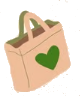
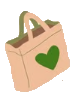
Nos valeurs WIP + component image avec titre

diff --git a/resources/js/Pages/Valeur/Valeurs.jsx b/resources/js/Pages/Valeur/Valeurs.jsx
@@ -2,21 +2,69 @@ import { Head } from '@inertiajs/react';
 
 import MainTitle from "./InfoText/MainTitle";
 import Line from "./InfoText/Line";
-import LittleSection from "./InfoText/LittleSection";
+import LittleOrangeSection from "./InfoText/LittleOrangeSection";
+import WhiteSection from './InfoText/WhiteSection';
 
 export default function Valeurs() {
     return(
         <>
-            <div className='Producteur bg-[#EFBD9A]'>
+            <div className='Producteur bg-[#EFBD9A] lg:hidden'>
                 <Head title="Nos Valeurs" />
 
                 <MainTitle/>
 
                 <Line/>
 
-                <LittleSection image={"loveBag.png"} title={"Nos Valeurs"}/>
+                <LittleOrangeSection 
+                    image={"loveBag.png"} 
+                    title={"Nos Valeurs"} 
+                    textAlignment={'center'} 
+                    text="La faim des temps à toujours chercher à intégrer le maximum de bonnes pratiques environnementales dans son fonctionnement pour la simple et bonne raison que cela fait partie des valeurs de base de ses fondateurs. On ne mange pas très bien avec un terroir exploité à l'extrême et pollué..."                />
 
-                <LittleSection image={"loveBag.png"} title={"Pour un centro plus vert et inclusif"}/>
+                {/* Section unique dans la page Valeurs.jsx */}
+                <div className="">
+                    <img
+                        className="w-1/3 mx-auto py-5"
+                        src="img/bigLeafPlant.png"
+                        alt="loveBag.png picture"
+                    />
+
+                    <div className="bg-[#F8ECE0] py-5 px-8 mx-14">
+                        <h2 className='text-xl font-extrabold angkor-regular pb-3'>
+                            Pour un Centro <br />
+                            plus <span className='text-[#387E39]'>vert</span> et <br />
+                            Inclusif
+                        </h2>
+
+                        <p>
+                            Soucieux de notre environnement et conscients qu'une entreprise 
+                            alimentaire peut rapidement produire beaucoup de déchets, nous 
+                            avons mis sur pied plusieurs stratégies pour réduire au maximum 
+                            notre empreinte environnementale.
+                        </p>
+                    </div>
+                </div>
+
+                <Line/>
+
+                <WhiteSection 
+                    image1={"leaf.png"} 
+                    subTitle1={"Produits Locaux"}
+                    text1={"Nos partenaires sont majoritairement Sherbrookois... ou Québécois (on aime un peu trop l'île d'Orléans pour s'en passer). De plus nous utilisons des ingrédients locaux autant que possible et notre menu bistro change au rythme des saisons. Nous choisissons aussi prioritairement des producteurs ou artisans biologiques/naturels."}                    image2={"plantBag.png"} 
+                    subTitle2={"Viser le zéro déchet"}
+                    text2={"À la fin des temps, quasiment tout est recyclé ou composté. Nous sommes très fiers que notre poubelle soit de la taille d'une corbeille à papiers de bureaux. Notre chère clientèle nous rapporte les contenants pour les plats du traiteur. Ces derniers sont ensuite nettoyés et assainis avant d'être réutilisés."}
+                    title={"Nos Gestes"} 
+                    textAlignment={'center'}/>
+
+                <Line/>
+                {/* Section caché pour le moment, en attente de confirmation du projet */}
+                <LittleOrangeSection 
+                    image={"crossHand.png"} 
+                    title={"Un accueil pour tous"} 
+                    text={"Lorem Ipsum is simply dummy text of the printing and typesetting industry. Lorem Ipsum has been the industry's standard dummy text ever since the 1500s, when an unknown printer took a galley of type and scrambled it to make a type specimen book. It has survived not only five centuries, but also the leap into electronic typesetting, remaining essentially unchanged. It was popularised in the 1960s with the release of Letraset sheets containing"}
+                    textAlignment={'center'} 
+                    imgIn={true} 
+                    hidden={false}/> 
             </div>
         </>
     )

diff --git a/resources/js/Pages/Valeur/InfoText/LittleOrangeSection.jsx b/resources/js/Pages/Valeur/InfoText/LittleOrangeSection.jsx
@@ -1,0 +1,35 @@
+import React, {useState} from "react";
+import SectionTitle from "./SectionTitle";
+
+export default function LittleOrangeSection(props) {
+
+    const [title, setTitle] = useState(props.title);
+    const [textAlignment, setTextAlignment] = useState(props.textAlignment);
+
+    return(
+        <div className={`py-5 ${props.hidden ? 'hidden' : ''}`}>
+            <img
+                className={`w-1/3 mx-auto py-5 ${props.imgIn ? 'hidden' : ''} lg:absolute lg:z-0 lg:w-48 lg:top-36 lg:-rotate-8`}
+                src={"img/"+props.image}
+                alt={props.image+" picture"}
+            />
+
+            <div className="bg-[#E2A76C] p-4 m-5 lg:relative lg:z-10 lg:grid lg:grid-cols-6 lg:m-0 lg:w-1/3 lg:p-5 lg:ml-20">
+                <img
+                    className={`w-1/3 mx-auto py-5 ${props.imgIn ? '' : 'hidden'} lg:hidden`}
+                    src={"img/"+props.image}
+                    alt={props.image+" picture"}
+                />
+                <SectionTitle title={title}  textAlignment={textAlignment}/>
+
+                {/* Cette image n'apparaît que en format laptop */}
+                <img 
+                    className="w-1/3 hidden lg:block lg:z-20 lg:col-span-2 lg:w-full lg:my-auto"
+                    src="img/handPlant.png" 
+                    alt="hand planting picture" 
+                />
+                <p className=" lg:z-10 lg:col-span-4 lg:mt-3">{props.text}</p>
+            </div>
+        </div>
+    );
+}

diff --git a/resources/js/Pages/Valeur/InfoText/WhiteSection.jsx b/resources/js/Pages/Valeur/InfoText/WhiteSection.jsx
@@ -1,0 +1,20 @@
+import React, {useState} from "react";
+import SectionTitle from "./SectionTitle";
+import SubSection from "./SubSection";
+
+export default function WhiteSection(props) {
+
+    const [title, setTitle] = useState(props.title);
+    const [textAlignment, setTextAlignment] = useState(props.textAlignment);
+
+    return(
+        <div className="">
+            <div className="bg-[#F8ECE0] p-4 m-5">
+                <SectionTitle title={title} textAlignment={textAlignment}/>
+                
+                <SubSection image={props.image1} SubTitle={props.subTitle1} text={props.text1}/>
+                <SubSection image={props.image2} SubTitle={props.subTitle1} text={props.text2}/>
+            </div>
+        </div>
+    );
+}

diff --git a/resources/js/Pages/Valeur/InfoText/SubSection.jsx b/resources/js/Pages/Valeur/InfoText/SubSection.jsx
@@ -1,0 +1,19 @@
+import SubTitle from "./SubTitle";
+
+export default function SubSection(props) {
+    return(
+        <div>
+            <div className="p-4 m-5">
+                <img
+                    className="w-1/3 mx-auto py-5"
+                    src={"img/"+props.image}
+                    alt={props.image+" picture"}
+                />
+
+                <SubTitle title={props.SubTitle} />
+
+                <p>{props.text}</p>
+            </div>
+        </div>
+    );
+}

diff --git a/resources/js/Components/HeadWithImage.jsx b/resources/js/Components/HeadWithImage.jsx
@@ -1,0 +1,18 @@
+import { Link } from '@inertiajs/react';
+
+export default function HeadWithImage(props) {    
+    return (
+        <div className={`flex h-[37rem] lg:h-[48rem] bg-[url("img/${props.imgFile}")] bg-cover`}>
+            <div className='bg-white py-16 bg-opacity-75 my-auto top-24 w-full lg:py-10'>
+                <h1 className='w-80 m-auto font-serif text-[#04203f] leading-tight text-center text-5xl lg:w-[42rem]'>{props.title}</h1>
+                {props.button && (
+                    <div className='flex justify-center'>
+                        <Link href={props.path}>
+                            <button className='mt-8 lg:mt-6 uppercase bg-[#7A163C] text-white font-bold text-lg lg:text-base px-8 py-2 rounded-sm shadow-md hover:shadow-lg'>{props.buttonText}</button>
+                        </Link>
+                    </div>
+                )}
+            </div>
+        </div>
+    )
+}

diff --git a/resources/js/Pages/Producteur/Producteurs.jsx b/resources/js/Pages/Producteur/Producteurs.jsx
@@ -4,6 +4,7 @@ import { useTranslation } from 'react-i18next';
 import Title from "./InfoText/Title";
 import Text from "./InfoText/Text";
 import PaginationBar from '@/Components/PaginationBar';
+import HeadWithImage from '@/Components/HeadWithImage';
 
 export default function Producteur( { producteurs }) {
     const imgFile = '/img/';
@@ -12,21 +13,27 @@ export default function Producteur( { producteurs }) {
         <div className='Producteur'>
             <Head title="Nos Producteurs" />
 
-            <h1>Nos Producteurs</h1>
+            <HeadWithImage
+                imgFile="accueil.jpg"
+                title="Nos Producteurs"
+                button={false}
+                buttonText="none"
+                path="/"
+            />
 
             {producteurs.data.map(producteur => (
                 <div key={producteur.id}>
                     <div
-                        className={`${producteur.id % 2 === 0 ? 'bg-[#7A163C80]' : ''} my-5 rounded-lg m-3 py-4 sm:m-8`}
+                        className={`${producteur.id % 2 === 0 ? 'bg-[#7A163C80]' : ''} my-5 rounded-lg m-3 py-4 lg:m-8`}
                     >
-                        <div className='sm:grid sm:grid-cols-2 sm:p-4'>
+                        <div className='lg:grid lg:grid-cols-2 lg:p-4'>
                             <img
-                                className={`${producteur.id % 2 === 0 ? 'sm:order-2' : 'sm:order-1'} mx-auto px-10 py-2 order-1 sm:row-span-4 sm:pl-6 sm:w-5/6`} 
+                                className={`${producteur.id % 2 === 0 ? 'lg:order-2' : 'lg:order-1'} mx-auto px-10 py-2 order-1 lg:row-span-4 lg:pl-6 lg:w-5/6`} 
                                 src={producteur.image.nom_fichier !== '' ? imgFile + producteur.image.nom_fichier : imgFile + 'logo-big.jpg'}   //Si il y à un nom de fichier qui à été spécifié pour le producteur alors on affiche l'image liée, sinon on affiche le logo comme "image par défaut"
                                 alt={producteur.nom}
                             />
 
-                            <div className={`${producteur.id % 2 === 0 ? 'sm:order-1' : 'sm:order-2'}`}>
+                            <div className={`${producteur.id % 2 === 0 ? 'lg:order-1' : 'lg:order-2'}`}>
                                 <Title url = {producteur.url} nom = {producteur.nom}/>
 
                                 <Text description = 'faire table dans BD' adresse = {producteur.adresse}/>

diff --git a/resources/js/Pages/Accueil.jsx b/resources/js/Pages/Accueil.jsx
@@ -2,10 +2,10 @@ import TitleSection from '@/Components/TitleSection';
 import { Link, Head } from '@inertiajs/react';
 import { useTranslation } from 'react-i18next';
 import AccueilImg from '@/Components/AccueilImg';
+import HeadWithImage from '@/Components/HeadWithImage';
 
 import ferme from '../../../public/img/ferme.jpg'
 import assiette from '../../../public/img/assiette.jpg'
-
 
 export default function Accueil() {
 
@@ -15,7 +15,15 @@ export default function Accueil() {
         <>
             <Head title="Accueil"/>
 
-            <div className='flex h-[37rem] lg:h-[48rem] bg-[url("img/accueil.jpg")] bg-cover'>
+            <HeadWithImage
+                imgFile="accueil.jpg"
+                title="Votre option traiteur et plats cuisinés au Centro"
+                button={true}
+                buttonText="Menu de la semaine"
+                path="/menu"
+            />
+
+            {/* <div className='flex h-[37rem] lg:h-[48rem] bg-[url("img/accueil.jpg")] bg-cover'>
                 <div className='bg-white py-16 bg-opacity-75 my-auto top-24 w-full lg:py-10'>
                     <h1 className='w-80 m-auto font-serif text-[#04203f] leading-tight text-center text-5xl lg:w-[42rem]'>Votre option traiteur et plats cuisinés au Centro</h1>
                     <div className='flex justify-center'>
@@ -24,7 +32,7 @@ export default function Accueil() {
                         </Link>
                     </div>
                 </div>
-            </div>
+            </div> */}
 
             <div className='bg-[#04203f] py-12 px-8'>
                 <h2 className='font-serif text-white text-center text-4xl font-medium mb-8 px-4 h-'>

diff --git a/resources/js/Components/PaginationBar.jsx b/resources/js/Components/PaginationBar.jsx
@@ -1,10 +1,11 @@
 import { Link } from "@inertiajs/react";
+import { space } from "postcss/lib/list";
 
 export default function PaginationBar({ links }) {
     return (
         <div className="py-6 text-center">
             {links.map(link => (
-                // Si il y a une page suivante ou précédente, on affiche un lien cliquable, sinon on le cache
+                // Si il y a une page suivante ou précédente, on affiche un lien cliquable, sinon on affiche rien
                 link.url ? (
                     <Link 
                         preserveScroll
@@ -15,14 +16,7 @@ export default function PaginationBar({ links }) {
                         {/* On remplace les caractères spéciaux par les flèches pour éviter d'utiliser dangerouslySetInnerHTML  */}
                         {link.label.replace('&raquo;', '»').replace('&laquo;', '«')}
                     </Link>
-                ) :
-                <span 
-                    key={link.label} 
-                    className={`px-4 py-2 mx-1 hidden`}
-                >
-                    {/* On remplace les caractères spéciaux par les flèches pour éviter d'utiliser dangerouslySetInnerHTML  */}
-                    {link.label.replace('&raquo;', '»').replace('&laquo;', '«')}
-                </span>
+                ) : null
             ))}
         </div>
     )

diff --git a/resources/js/Pages/Valeur/InfoText/SubTitle.jsx b/resources/js/Pages/Valeur/InfoText/SubTitle.jsx
@@ -1,0 +1,7 @@
+export default function SubTitle(props) {
+    return(
+        <p className='stoke pb-3'>
+            {props.title}
+        </p>
+    );
+}

diff --git a/resources/js/Pages/Valeur/InfoText/SectionTitle.jsx b/resources/js/Pages/Valeur/InfoText/SectionTitle.jsx
@@ -1,5 +1,6 @@
 export default function SectionTitle(props) {
-    return(
-        <h2 className="text-center text-xl font-extrabold angkor-regular">{props.title}</h2>
+    console.log(props);
+    return (
+        <h2 className={`text-${props.textAlignment} text-xl font-extrabold angkor-regular lg:col-span-6 lg:text-4xl`}>{props.title}</h2>
     );
 }

diff --git a/resources/css/app.css b/resources/css/app.css
@@ -4,8 +4,6 @@
 
 .angkor-regular {
     font-family: "Angkor", serif;
-    font-weight: 400;
-    font-style: normal;
 }
 
 .stoke {

diff --git a/resources/js/Pages/Valeur/InfoText/Line.jsx b/resources/js/Pages/Valeur/InfoText/Line.jsx
@@ -1,6 +1,6 @@
 export default function MainTitle() {
     return (
-        <div className='p-3'>
+        <div className='p-3 lg:hidden'>
             <hr className='bg-black h-1'/>
         </div>
     )